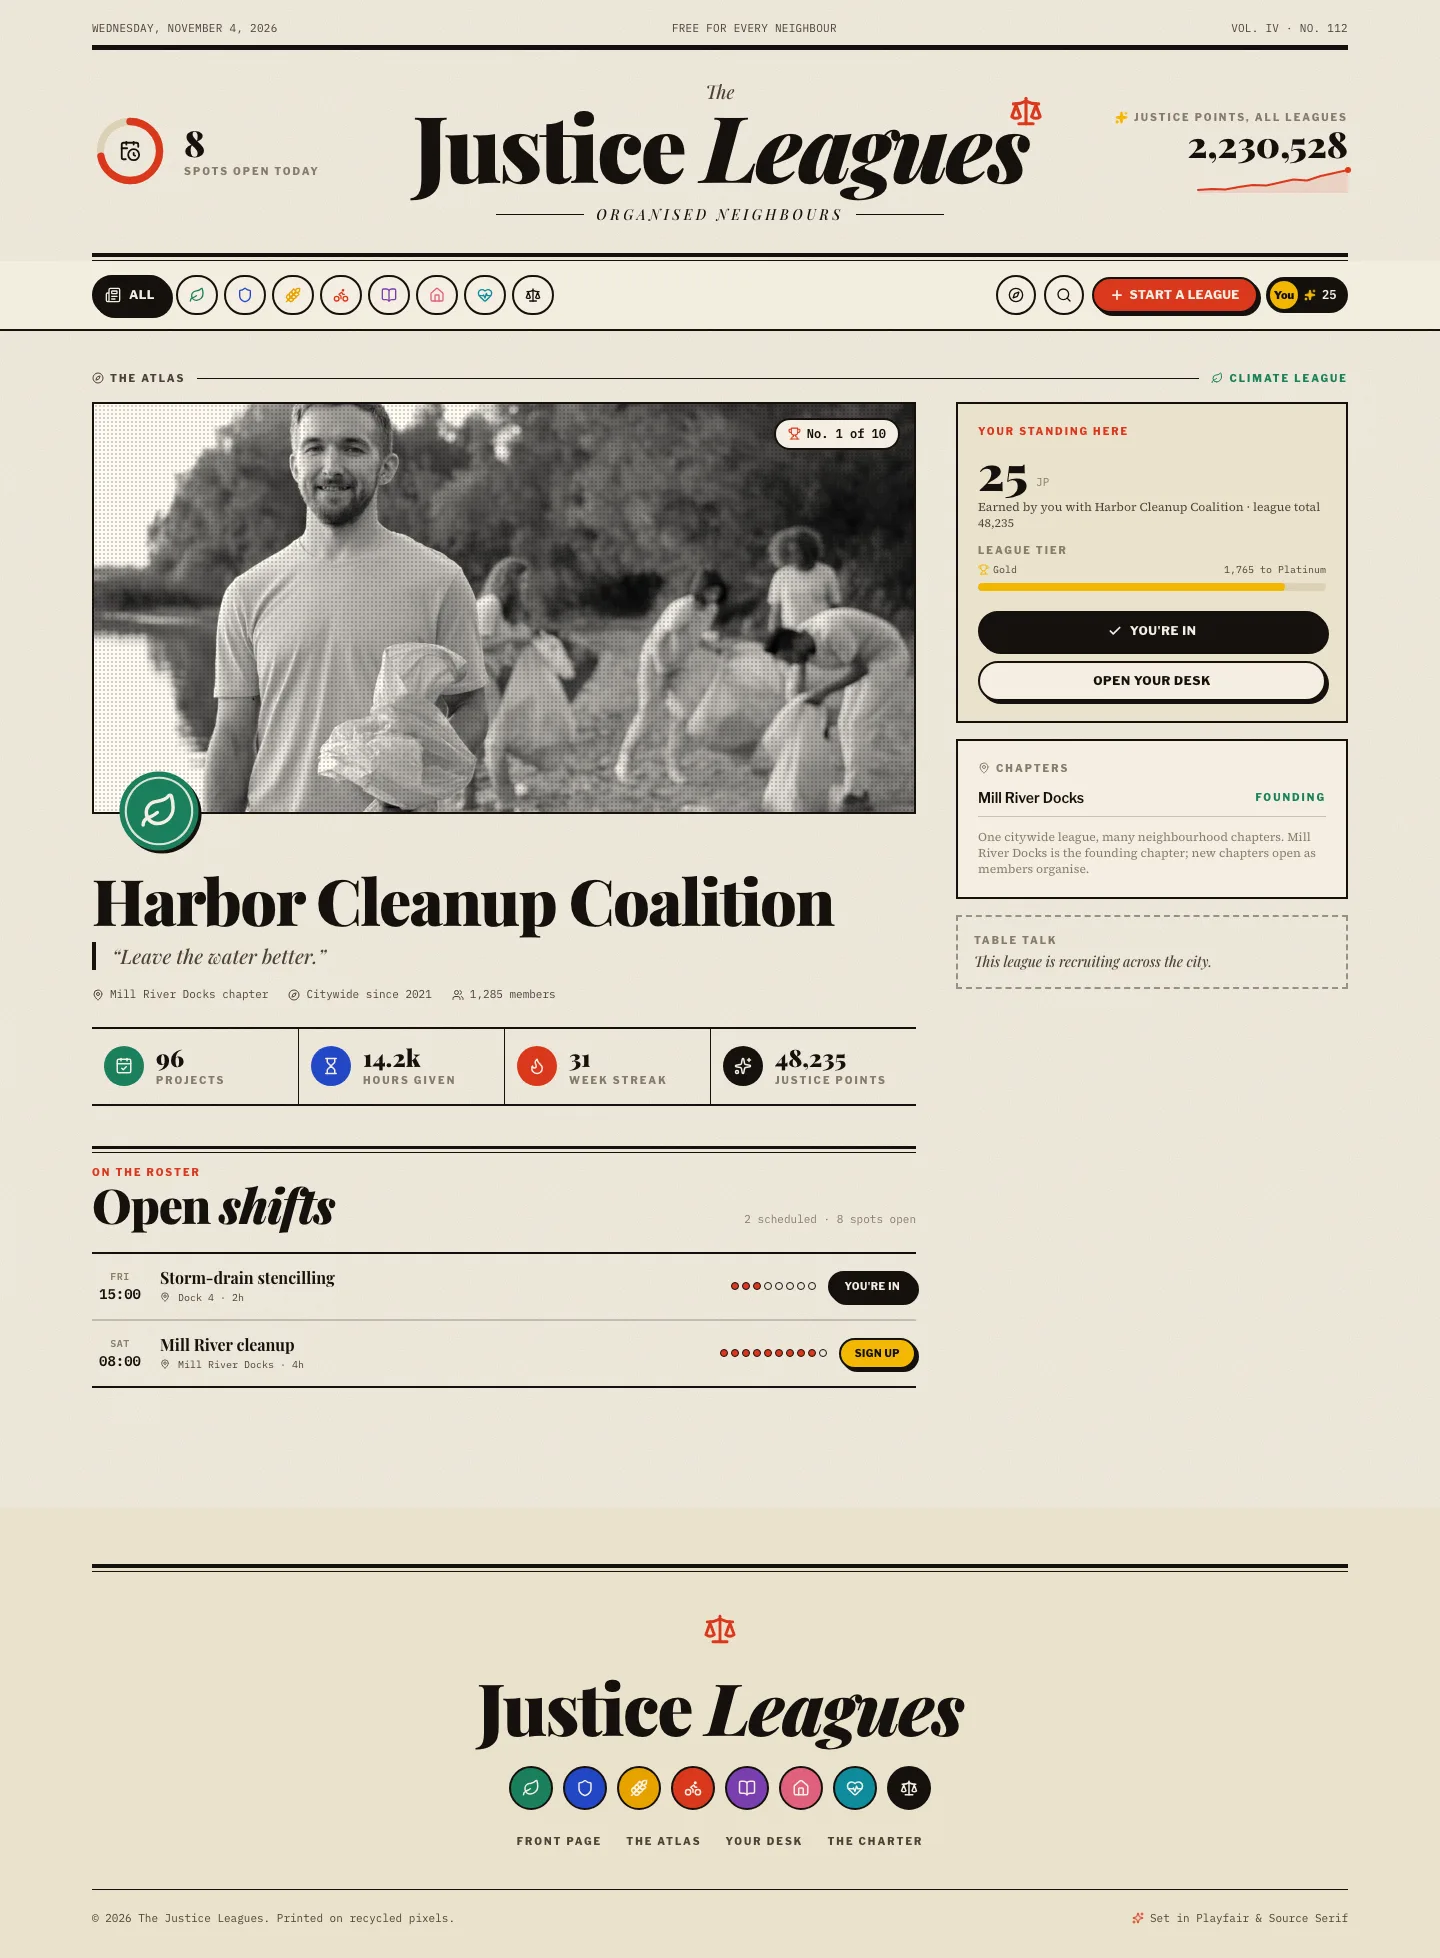
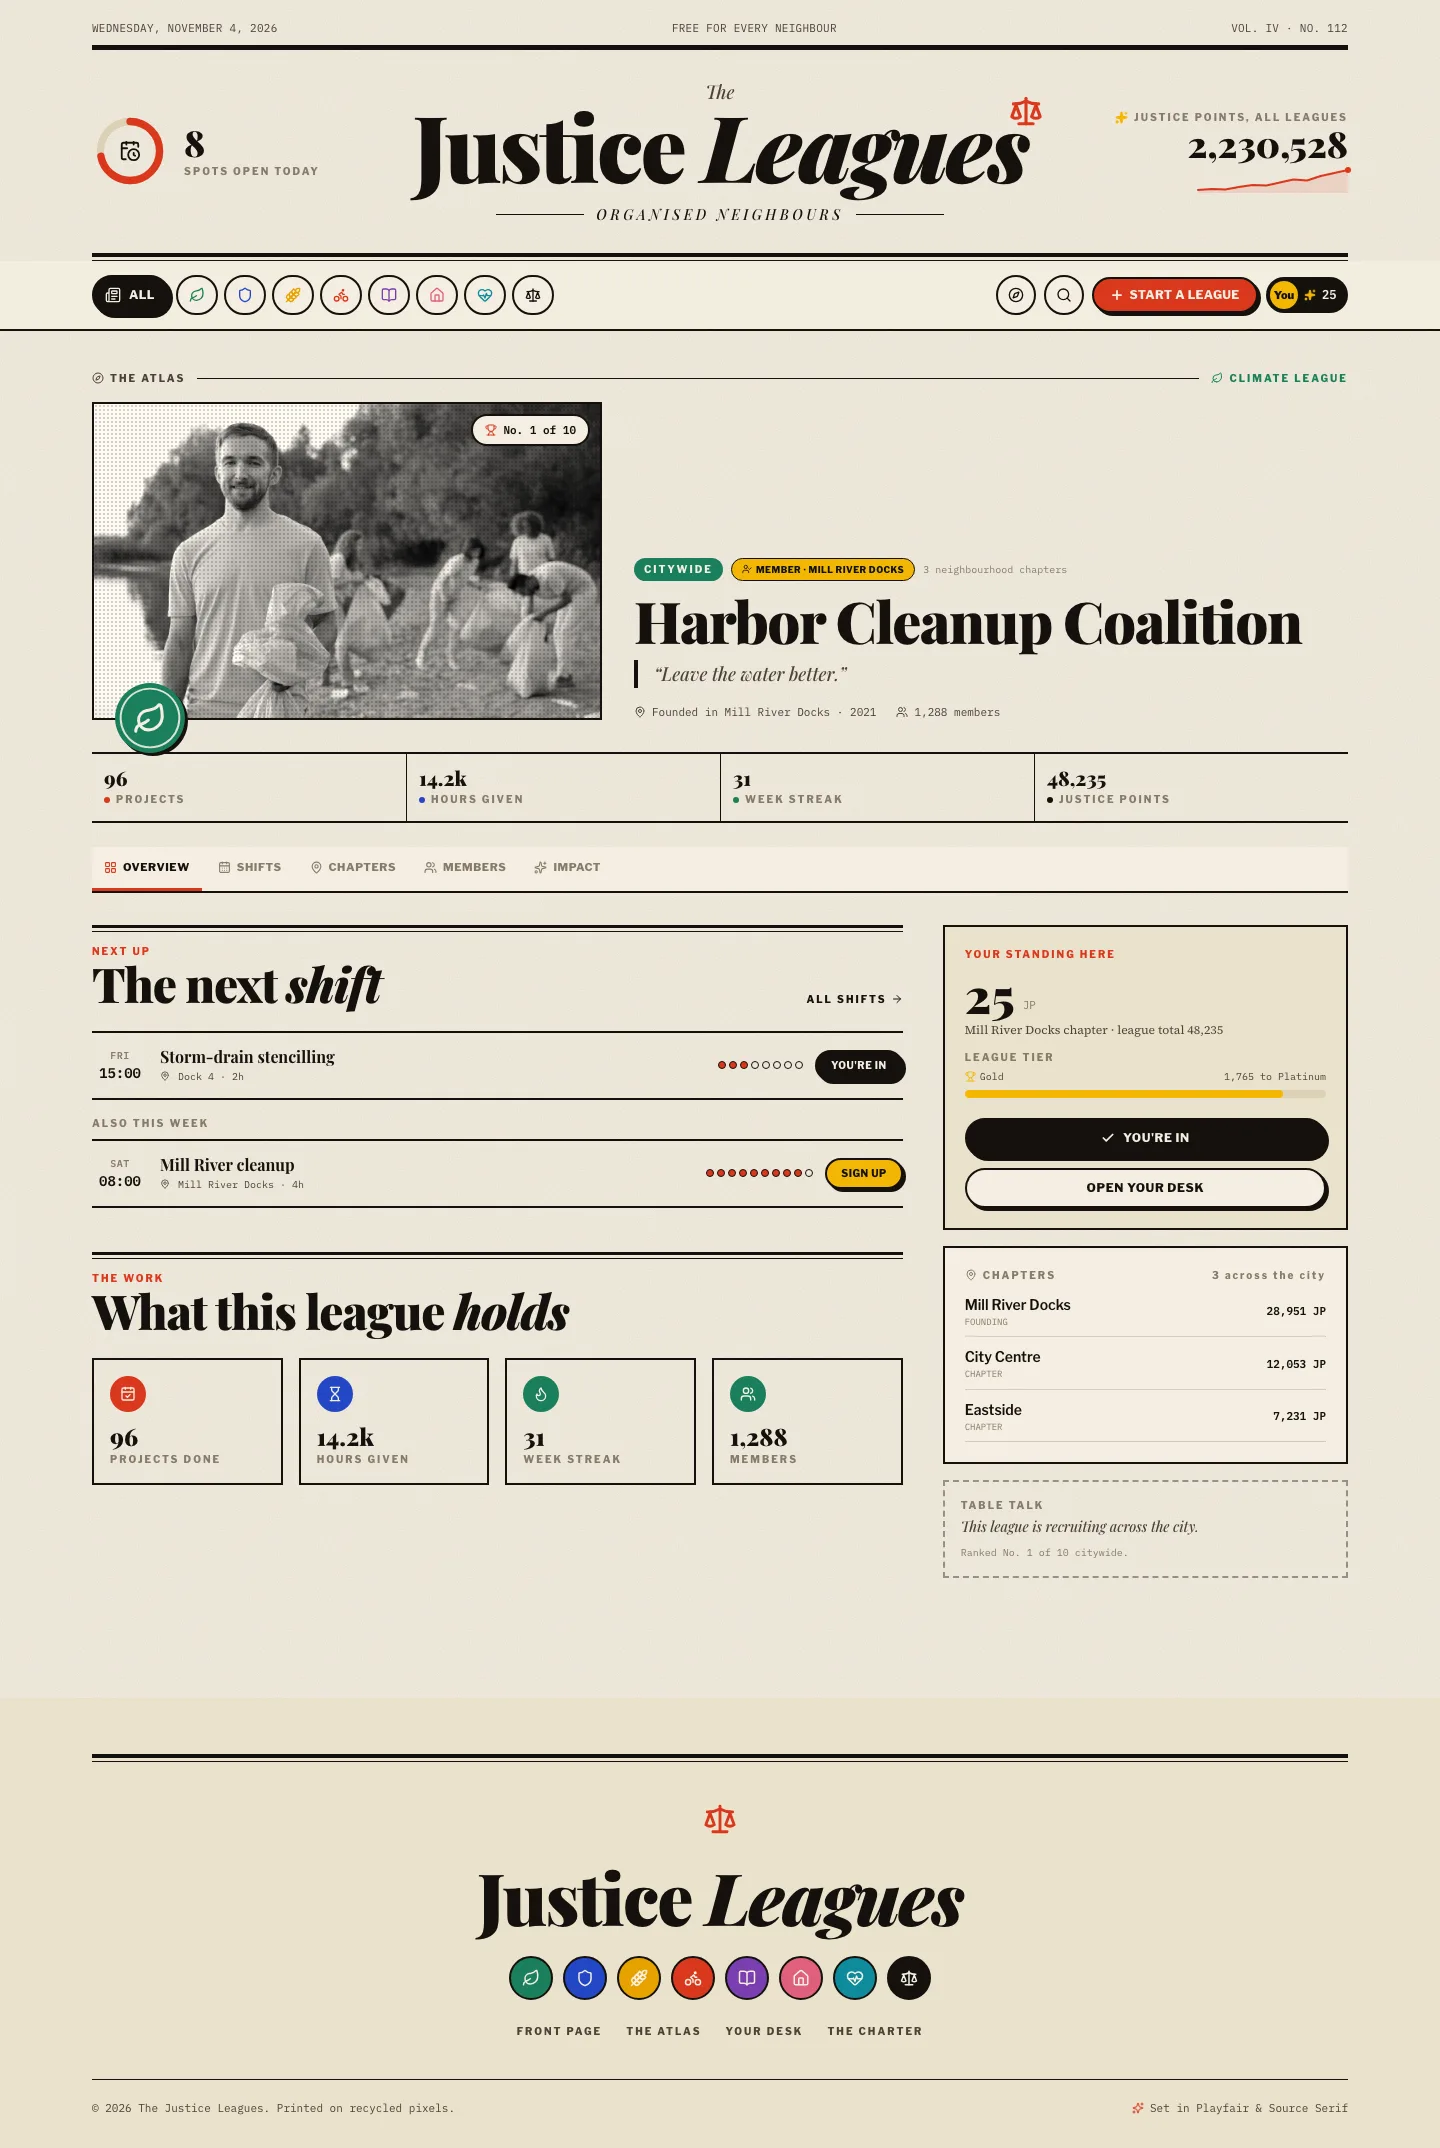
Refresh README screens and document demo stewards

diff --git a/README.md b/README.md
@@ -6,7 +6,7 @@
   <a href="https://github.com/Abhinav-Prabhakar/justice-leagues/stargazers"><img src="https://img.shields.io/github/stars/Abhinav-Prabhakar/justice-leagues?style=flat-square&labelColor=14110d&color=f2b705" alt="Stars" /></a>
   <a href="https://github.com/Abhinav-Prabhakar/justice-leagues/commits/main"><img src="https://img.shields.io/github/last-commit/Abhinav-Prabhakar/justice-leagues?style=flat-square&labelColor=14110d&color=1b7f5c" alt="Last commit" /></a>
   <a href="LICENSE"><img src="https://img.shields.io/github/license/Abhinav-Prabhakar/justice-leagues?style=flat-square&labelColor=14110d&color=d9381e" alt="License" /></a>
-  <img src="https://img.shields.io/badge/tests-20_unit_%C2%B7_6_e2e-1b7f5c?style=flat-square&labelColor=14110d" alt="Tests" />
+  <img src="https://img.shields.io/badge/tests-32_unit_%C2%B7_8_e2e-1b7f5c?style=flat-square&labelColor=14110d" alt="Tests" />
   <img src="https://img.shields.io/badge/react-19-2347c5?style=flat-square&labelColor=14110d" alt="React 19" />
   <img src="https://img.shields.io/badge/typescript-strict-2347c5?style=flat-square&labelColor=14110d" alt="TypeScript" />
   <img src="https://img.shields.io/badge/sqlite-local_only-f2b705?style=flat-square&labelColor=14110d" alt="SQLite" />
@@ -28,7 +28,8 @@
 
 - **Citywide leagues, neighbourhood chapters.** Climate, safety, food, transit, learning, housing, health, rights.
 - **Real shifts, real capacity.** Join a league, claim a shift, survive a refresh. Two accounts see the same filled spots.
-- **Server-authored Justice Points.** Append-only ledger. Joining awards +25 once; signup mints nothing.
+- **A steward desk, not a form.** Stewards post shifts, cancel them, and record attendance. Hours become points.
+- **Server-authored Justice Points.** Append-only ledger. Joining awards +25 once; signup mints nothing; check-in awards hours × 12.
 
 > Points land when a steward checks you in — not when you tap sign up. That distinction is the whole leaderboard.
 
@@ -36,7 +37,11 @@
 
 <table>
   <tr>
-    <td width="50%"><a href="docs/screenshots/league.webp"><img src="docs/screenshots/league.webp" alt="League page with standing, chapters, and open shifts" /></a><br/><sub><b>League page</b> · standing, tier, chapters, open shifts</sub></td>
+    <td width="50%"><a href="docs/screenshots/league.webp"><img src="docs/screenshots/league.webp" alt="League page with tabs, standing, chapters, and open shifts" /></a><br/><sub><b>League page</b> · tabs, standing, and the next shift</sub></td>
+    <td width="50%"><a href="docs/screenshots/steward.webp"><img src="docs/screenshots/steward.webp" alt="Steward desk with a checked-in volunteer and an awarded ledger entry" /></a><br/><sub><b>Steward desk</b> · post a shift, record hours, mint nothing by hand</sub></td>
+  </tr>
+  <tr>
+    <td width="50%"><a href="docs/screenshots/chapters.webp"><img src="docs/screenshots/chapters.webp" alt="Neighbourhood chapter cards with points, members, and shifts" /></a><br/><sub><b>Chapters</b> · every point rolls up to the citywide league</sub></td>
     <td width="50%"><a href="docs/screenshots/dashboard.webp"><img src="docs/screenshots/dashboard.webp" alt="Personal desk with points, roster, and ledger" /></a><br/><sub><b>Your desk</b> · points, roster, and the ledger</sub></td>
   </tr>
   <tr>
@@ -89,13 +94,25 @@ npm run db:seed    # migrate + seed if empty
 npm run db:reset   # throw the paper away and rebuild it
 ```
 
+### Demo stewards
+
+A fresh seed gives every chapter a steward. The founding chapter's steward owns the league. They all use the password `millbrook`:
+
+```text
+steward.harbor.1@justiceleagues.local   # owner, Mill River Docks
+steward.harbor.2@justiceleagues.local   # steward, City Centre
+steward.harbor.3@justiceleagues.local   # steward, Eastside
+```
+
+Swap `harbor` for any league id (`spoke`, `ridgeline`, `civic`, …) and `1`–`3` for a chapter. These are local demo accounts — nothing leaves the machine.
+
 ## Checks
 
 ```bash
 npm run typecheck
 npm run lint
-npm run test       # 20 unit + API integration tests
-npm run test:e2e   # 6 Playwright tests, isolated :8788 / :5174 / data/e2e.db
+npm run test       # 32 unit + API integration tests
+npm run test:e2e   # 8 Playwright tests, isolated :8788 / :5174 / data/e2e.db
 npm run shots      # design-review screenshots → /tmp/jl-shots
 ```
 

diff --git a/ROADMAP.md b/ROADMAP.md
@@ -1,8 +1,9 @@
 # Justice Leagues — Prototype → Production Plan
 
-Status: **prototype**. The front page is a convincing editorial shell; almost
-everything below it is local state and fixture data. This document is the path
-to a real, multi-user, money-safe-ish civic product.
+Status: **Phase 2 in progress**. The SQLite substrate, local auth, persisted
+signups, neighbourhood chapters, the tabbed league shell, steward check-in, and
+steward shift authoring are real. Resources, project approval, invitations, and
+the standings cache remain.
 
 Design constraints for every phase: [`DESIGN.md`](./DESIGN.md).
 
@@ -216,7 +217,7 @@ production build offline.
 - Typed API client (`src/lib/api`) + TanStack Query; Zod request schemas. ✅
 - Repository-level authorization: every mutation requires a session and
   membership is checked before league/shift writes. Steward/owner role
-  assertions land with the Phase 2 tools that grant those roles.
+  assertions now guard check-in, rosters, and shift authoring. ✅
 - Persisted join/leave and shift signup with optimistic updates and rollback. ✅
 - Vendor fonts and seed images into `public/` for offline use. ✅
 - E2E isolation: Playwright runs its own API, ports and `data/e2e.db`; specs
@@ -236,13 +237,16 @@ The core product. A real route, not a drawer.
 
 - `LeagueShell`: league masthead, cause emblem, role badge, chapter switcher,
   tab nav (Overview · Shifts · Chapters · Members · Resources · Impact · Settings).
+  ✅ Overview · Shifts · Chapters · Members · Impact · Steward (role-gated).
 - Chapter model in the UI: a citywide league rolls up N neighbourhood chapters;
-  every shift, resource, and project is filed under a chapter.
-- Overview: next shift, fill rate, active members, points sparkline, recent win.
+  every shift, resource, and project is filed under a chapter. ✅
+- Overview: next shift, fill rate, active members, points sparkline, recent win. ✅
 - Shifts: create/edit/cancel; capacity + waitlist; signup; steward check-in;
-  attendance → hours → points.
+  attendance → hours → points. ✅ create/cancel, capacity, signup, check-in,
+  hours → points; waitlist and edit still open.
 - Members: roster, roles (owner/steward/member), chapter assignment, invite by
-  local link token, remove.
+  local link token, remove. ✅ roster, roles, home-chapter assignment; invites
+  and removal still open.
 - Resources: post offer/want, claim, fulfil, expire; photo optional.
 - Projects/Wins: submit with metrics + evidence; steward approve/reject;
   approval triggers points and a public win card.
@@ -380,8 +384,12 @@ rollback plan.
 7. Write migrations for profiles/cities/neighbourhoods/leagues/chapters/shifts. ✅
 8. Seed from the fixtures; swap the home page to read from the database. ✅
 9. Build local auth + onboarding. ✅
-10. Ship league Overview + Shifts with persisted signup → check-in → points.
-    Persisted signup ✅; check-in and steward-awarded points are Phase 2.
+10. Ship league Overview + Shifts with persisted signup → check-in → points. ✅
+11. Give every league three neighbourhood chapters; file joins under a home
+    chapter. ✅
+12. Replace the single league page with a tabbed shell and a public roster. ✅
+13. Add steward check-in (hours → ledger) and steward-authored shifts. ✅
+14. Next: resources, project approval, chapter invites, standings cache.
 
 Done when: a stranger can join a league, claim a shift, and see verified points
 that a steward — not a browser — awarded.
